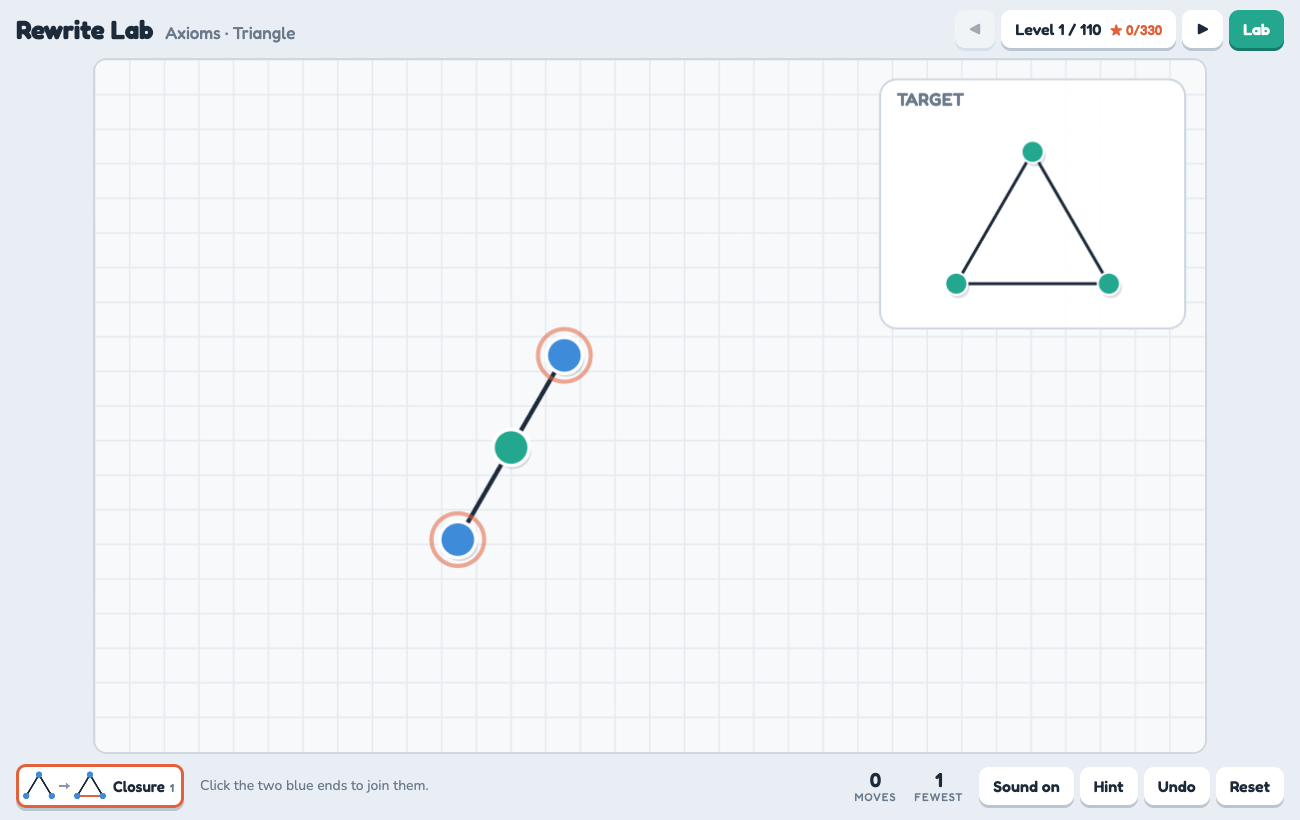
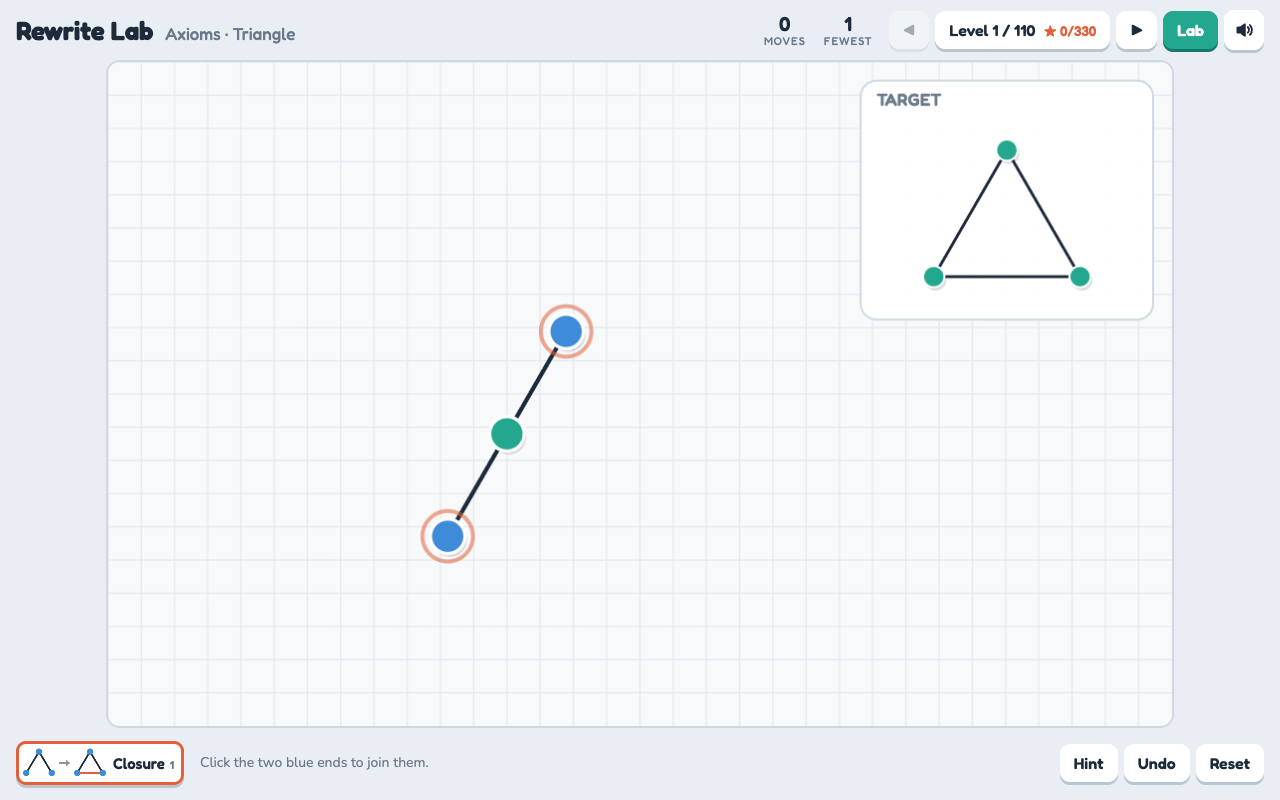
Rewrite Lab: upright board on phones, fixed one-row dock, targets fill their card, Enter on the result card, settings up front
- Portrait bench (500x760) when the window is taller than wide: the graph is about 1.6x larger on a phone; rotating mid-level slides the graph across
- Move counts and a speaker icon move to the header, so the dock never wraps on desktop and the board no longer resizes between levels
- Classic drawings smaller than the card (Domino, Cube) are scaled to fill it like every other target
- Links rest a little longer (88), so graphs use more of the bench
- Every board/feel number in one numbered settings section at the top of the game script
- Level logic (sim block) is byte-identical, so solvability is unchanged

Claude-Session: https://claude.ai/code/session_01NFkjwohv68gp6v72RhcLRV

diff --git a/index.html b/index.html
@@ -24,7 +24,7 @@ body{background:var(--bg);color:var(--ink);font-family:var(--f-body);font-size:1
 .app{height:100vh;height:100dvh;max-width:1400px;margin:0 auto;padding:10px 16px 12px;display:grid;grid-template-rows:auto minmax(0,1fr) auto;gap:10px}
 .mid{min-height:0;min-width:0;display:grid;place-items:center}
 .top{display:flex;flex-wrap:wrap;align-items:center;justify-content:space-between;gap:10px 16px}
-.title{display:flex;align-items:baseline;gap:12px;flex-wrap:wrap;min-width:0}
+.title{flex:1 1 auto;display:flex;align-items:baseline;gap:12px;flex-wrap:wrap;min-width:0}
 h1{font-family:var(--f-display);font-weight:700;font-size:26px;margin:0;letter-spacing:-.01em}
 #lvname{font-family:var(--f-display);font-weight:500;font-size:17px;color:var(--muted)}
 .levels{display:flex;gap:6px;align-items:center}
@@ -51,17 +51,21 @@ button.primary{background:var(--accent);color:#fff;box-shadow:0 3px 0 #a8401f}
 .lv.cur{background:var(--ink);color:#fff;box-shadow:0 3px 0 #0b121b}.lv.cur small{color:#f0a92a}
 .stage{position:relative;border-radius:14px;overflow:hidden;border:2px solid var(--line);background:#f7f9fb;width:800px;height:500px}
 canvas#board{display:block;width:100%;height:100%;touch-action:none;cursor:pointer}
-.dock{display:flex;align-items:center;gap:8px 16px;flex-wrap:wrap}
+.dock{display:grid;grid-template-columns:auto minmax(0,1fr) auto;align-items:center;gap:8px 16px;min-height:50px}
 .rules{display:flex;gap:6px;flex-wrap:wrap}
 .rule{display:flex;align-items:center;gap:6px;padding:5px 10px 5px 6px}
 .rule canvas{width:85px;height:34px}
 .rule span{font-size:15px}.rule kbd{font-family:var(--f-display);font-size:11px;color:var(--muted);margin-left:5px}
 .rule.sel{box-shadow:0 0 0 3px var(--accent) inset,0 3px 0 #b9c5d1}
-#hint{color:var(--muted);margin:0;min-width:0;flex:1 1 220px;font-size:14px;line-height:1.3}
+#hint{color:var(--muted);margin:0;min-width:0;font-size:14px;line-height:1.3;display:-webkit-box;-webkit-line-clamp:2;-webkit-box-orient:vertical;overflow:hidden}
 .stats{display:flex;gap:18px;font-family:var(--f-display);font-variant-numeric:tabular-nums}
 .stat{display:grid;line-height:1.1;text-align:center}.stat b{font-size:20px;font-weight:600}
 .stat span{font-size:11px;color:var(--muted);text-transform:uppercase;letter-spacing:.08em}
 .group{display:flex;gap:6px;align-items:center}
+button.icon{width:40px;height:40px;padding:0;display:grid;place-items:center}button.icon svg{width:20px;height:20px}
+@media (max-width:1180px){.rule canvas{width:64px;height:26px}}
+@media (max-height:480px){h1{display:none}.app{padding:6px 12px 8px;gap:6px}button{padding:6px 10px}button.icon{height:34px}}
+@media (max-width:760px){.dock{display:flex;flex-wrap:wrap}#hint{flex:1 1 100%}.top{gap:8px 12px}}
 .overlay{position:absolute;inset:0;display:grid;place-items:center;background:rgba(29,42,58,.35);padding:16px}
 .res{background:var(--panel);border:2px solid var(--line);padding:20px 26px;border-radius:16px;text-align:center;display:grid;gap:12px;min-width:min(320px,100%)}
 .res h2{font-family:var(--f-display);font-size:28px;margin:0}
@@ -73,14 +77,15 @@ canvas#board{display:block;width:100%;height:100%;touch-action:none;cursor:point
 .res .group{justify-content:center}
 @keyframes pop{0%{transform:scale(0) rotate(-40deg)}100%{transform:scale(1)}}
 @media (prefers-reduced-motion:reduce){.stars span.on{animation:none}}
-@media (max-width:560px){h1{font-size:20px}#lvname{font-size:14px}.rule canvas{width:52px;height:21px}.rule span{font-size:13px}.rule kbd{display:none}.chrow{grid-template-columns:1fr}}
+@media (max-width:560px){h1{font-size:20px}.levels{gap:4px}.levels button{padding:8px 9px}#lvPick{min-width:0;white-space:nowrap;font-size:14px}#lvPick small{margin-left:5px}button.icon{width:36px}.title{flex:1 1 0}.stats{gap:12px}#lvname{font-size:14px}.rule canvas{width:52px;height:21px}.rule span{font-size:13px}.rule kbd{display:none}.chrow{grid-template-columns:1fr}}
 </style>
 </head>
 <body>
 <div class="app">
   <div class="top">
     <div class="title"><h1>Rewrite Lab</h1><span id="lvname"></span></div>
-    <div class="levels" id="levels"></div>
+    <div class="stats"><div class="stat"><b id="sMoves">0</b><span>moves</span></div><div class="stat"><b id="sBest">0</b><span>fewest</span></div></div>
+    <div class="levels"><div class="levels" id="levels"></div><button id="bMute" class="icon" title="Sound (M)" aria-label="Sound"></button></div>
   </div>
   <main class="mid" id="mid"><div class="stage" id="stage">
     <canvas id="board" width="800" height="500" aria-label="Graph board. Pick a rule, then click nodes or links where it applies."></canvas>
@@ -95,15 +100,14 @@ canvas#board{display:block;width:100%;height:100%;touch-action:none;cursor:point
         <h2 id="ovTitle"></h2>
         <div class="stars" id="ovStars"></div>
         <div class="goals" id="ovGoals"></div>
-        <div class="group"><button id="ovRetry">Again</button><button class="primary" id="ovNext">Next</button></div>
+        <div class="group"><button id="ovRetry">Again</button><button class="primary" id="ovNext" title="Enter">Next</button></div>
       </div>
     </div>
   </div></main>
   <footer class="dock">
     <div class="rules" id="rules"></div>
     <p id="hint"></p>
-    <div class="stats"><div class="stat"><b id="sMoves">0</b><span>moves</span></div><div class="stat"><b id="sBest">0</b><span>fewest</span></div></div>
-    <div class="group"><button id="bMute" title="Sound (M)">Sound on</button><button id="bHint">Hint</button><button id="bUndo">Undo</button><button id="bReset">Reset</button></div>
+    <div class="group"><button id="bHint">Hint</button><button id="bUndo">Undo</button><button id="bReset">Reset</button></div>
   </footer>
 </div>
 
@@ -423,18 +427,52 @@ if(typeof module!=='undefined')module.exports={LEVELS,RULES,SH,moves,completions
 </script>
 
 <script>
-/* ---------- game ---------- */
-const $=s=>document.querySelector(s);
-const cv=$('#board'),g=cv.getContext('2d'),W=800,H=500,DPR=Math.min(2,window.devicePixelRatio||1);
-/* the bench keeps 8:5 and fills the space between header and dock; the canvas draws at its real pixel size */
-let scale=1;
-function fit(){const m=$('#mid').getBoundingClientRect(),w=Math.max(280,Math.min(m.width,m.height*W/H)),st=$('#stage');
-  st.style.width=w+'px';st.style.height=w*H/W+'px';scale=w/W;cv.width=Math.round(w*DPR);cv.height=Math.round(w*H/W*DPR);}
-new ResizeObserver(fit).observe($('#mid'));fit();
-const reduce=matchMedia('(prefers-reduced-motion: reduce)').matches;
+/* ---------- 1. settings: every number that shapes the board, the feel and the look ---------- */
+/* The board is a logical drawing space that scales to the window. A wide window gets the landscape bench, a tall one
+   (a phone held upright) the portrait bench, so the graph uses the screen instead of a thin strip. */
+const BOARD_LAYOUTS={
+  landscape:{width:800,height:500,graphCentre:[300,280],winCentre:[300,270]},
+  portrait:{width:500,height:760,graphCentre:[250,470],winCentre:[250,470]},
+};
+const PORTRAIT_WHEN_TALLER_THAN=1.05;   // portrait board once the free space is this much taller than wide
+const SMALLEST_BOARD_PIXELS=280;        // the board never shrinks below this width on screen
+const TARGET_CARD={width:220,height:180,margin:14,drawingSize:110};  // pinned top right; drawingSize = the target's widest extent
+const LINK_REST_LENGTH=88;              // preferred link length on the board, before denser graphs stretch it
+const START_DRAWING_SIZE=300;           // a classic start drawing (extent 1) is scaled to this many board units
+const WIN_DRAWING_SIZE=260;             // on a win the graph morphs into the target drawing at this size
+const NODE_RADIUS=13;                   // board node radius
+const NODE_HIT_RADIUS=26;               // a click this close picks a node
+const LINK_HIT_DISTANCE=14;             // a click this close to a link (away from its ends) picks the link
+const DRAG_START_DISTANCE=6;            // the pointer must move this far before a press becomes a drag
+const NEW_NODE_POP_MS=350;              // a new or merged node swells for this long
+const BAD_CLICK_FLASH_MS=350;           // a click that does nothing shows a fading ring for this long
+const WIN_MORPH_MS=900;                 // the graph glides into the target drawing over this long
+const RESULT_CARD_DELAY_MS=250;         // pause after the morph before the result card
+const CONFETTI_PIECES=70, CONFETTI_MS=1600;
+const EVEN_ANGLE_PUSH=3;                // strength of the even-angles push in relax
+/* a node's colour is its link count: grey 0, blue 1, teal 2, gold 3, orange 4, purple 5, indigo 6+ */
 const DEG=['#9aa5b1','#3d8bd9','#23a88f','#f0a92a','#e2603a','#a957c4','#5257d1'];
+
+/* ---------- 2. game ---------- */
+const $=s=>document.querySelector(s);
+const cv=$('#board'),g=cv.getContext('2d'),DPR=Math.min(2,window.devicePixelRatio||1);
+/* current board: logical size, where graphs settle, the target card; fit() switches them with the window's shape */
+let boardShape='landscape',W=BOARD_LAYOUTS.landscape.width,H=BOARD_LAYOUTS.landscape.height,PANEL=null,scale=1;
+function useBoardShape(shape){const B=BOARD_LAYOUTS[shape];boardShape=shape;W=B.width;H=B.height;
+  PANEL={x:W-TARGET_CARD.width-TARGET_CARD.margin,y:TARGET_CARD.margin,w:TARGET_CARD.width,h:TARGET_CARD.height};}
+useBoardShape(boardShape);
+const graphCentre=()=>BOARD_LAYOUTS[boardShape].graphCentre;
+/* the bench keeps its shape's aspect and fills the space between header and dock; the canvas draws at its real pixel size.
+   Switching shape mid-level slides the graph to the new centre, and relax pulls it into the new bounds. */
+function fit(){const m=$('#mid').getBoundingClientRect(),shape=m.height>m.width*PORTRAIT_WHEN_TALLER_THAN?'portrait':'landscape';
+  if(shape!==boardShape){const [ox,oy]=graphCentre();useBoardShape(shape);const [nx,ny]=graphCentre();
+    const slide=([x,y])=>[x+nx-ox,y+ny-oy];
+    if(pos)for(const p of pos.values())[p.x,p.y]=slide([p.x,p.y]);
+    if(morph)for(const M of [morph.from,morph.to])for(const [v,xy] of M)M.set(v,slide(xy));}
+  const w=Math.max(SMALLEST_BOARD_PIXELS,Math.min(m.width,m.height*W/H)),st=$('#stage');
+  st.style.width=w+'px';st.style.height=w*H/W+'px';scale=w/W;cv.width=Math.round(w*DPR);cv.height=Math.round(w*H/W*DPR);}
+const reduce=matchMedia('(prefers-reduced-motion: reduce)').matches;
 const degCol=d=>DEG[Math.min(d,DEG.length-1)];
-const PANEL={x:566,y:14,w:220,h:180};
 /* chapters: [first level, name]; each one after Axioms brings in a rule */
 const CHAPTERS=[[1,"Axioms"],[14,"Pruning"],[22,"Homeomorphism"],[32,"False Twins"],[44,"Complements"],[58,"Delta-Wye"],[70,"Wye-Delta"],[82,"Grand Unification"],[101,"Erdős Problems"]];
 const chapterOf=i=>CHAPTERS.filter(c=>c[0]<=i+1).pop();
@@ -468,7 +506,10 @@ const SFX={
   undo:()=>tone(587,.1,{type:'triangle',to:392,vol:.06}),
   win:n=>[523,659,784,1047].slice(0,n+1).forEach((f,i)=>tone(f,.45,{type:'triangle',vol:.09,delay:i*.09})),
 };
-function setMute(m){save.muted=m;persist();$('#bMute').textContent=m?'Sound off':'Sound on';}
+/* speaker icon, with a cross when muted */
+const SPEAKER='<svg viewBox="0 0 24 24" fill="none" stroke="currentColor" stroke-width="2.2" stroke-linecap="round" stroke-linejoin="round"><path d="M4 9h4l5-4v14l-5-4H4z" fill="currentColor"/>';
+function setMute(m){save.muted=m;persist();const b=$('#bMute');b.setAttribute('aria-pressed',String(!m));
+  b.innerHTML=SPEAKER+(m?'<path d="M17 9l5 6M22 9l-5 6"/></svg>':'<path d="M16.5 8.5a5 5 0 0 1 0 7M19 6a8.5 8.5 0 0 1 0 12"/></svg>');}
 
 /* ---------- solver worker: level maps (instant hints) and Lab puzzles, off the main thread ---------- */
 function job(m){
@@ -482,8 +523,7 @@ try{worker=new Worker(URL.createObjectURL(new Blob([$('#sim').textContent,`;${jo
 function ask(m,cb){m.token=++jobs;waiting.set(m.token,[m,cb]);if(worker)worker.postMessage(m);else runLocal();}
 
 /* force layout */
-const ANG=3;// strength of the even-angles push in relax
-function relax(gg,P,iters,cx,cy,rest=72,pinned=null,board=true){
+function relax(gg,P,iters,cx,cy,rest=LINK_REST_LENGTH,pinned=null,board=true){
   const N=nbrs(gg);if(board)rest*=Math.max(1,Math.sqrt(gg.E.size/gg.V.length/1.2));
   for(let it=0;it<iters;it++){
     // spread the links around each node: neighbours closer than an even share of the circle are pushed apart sideways,
@@ -492,7 +532,7 @@ function relax(gg,P,iters,cx,cy,rest=72,pinned=null,board=true){
     for(const a of gg.V){const ns=[...N.get(a)];if(ns.length<2)continue;const p=P.get(a),even=2*Math.PI/ns.length;
       const th=ns.map(b=>{const q=P.get(b);return [b,Math.atan2(q.y-p.y,q.x-p.x),Math.hypot(q.x-p.x,q.y-p.y)+1];}).sort((x,y)=>x[1]-y[1]);
       th.forEach(([b,t,rb],i)=>{const [c,u,rc]=th[(i+1)%th.length],gap=((u-t)%(2*Math.PI)+2*Math.PI)%(2*Math.PI);if(gap>=even)return;
-        const f=ANG*(even-gap)*rest,fb=[Math.sin(t)*f/rb,-Math.cos(t)*f/rb],fc=[-Math.sin(u)*f/rc,Math.cos(u)*f/rc],ta=T.get(a);
+        const f=EVEN_ANGLE_PUSH*(even-gap)*rest,fb=[Math.sin(t)*f/rb,-Math.cos(t)*f/rb],fc=[-Math.sin(u)*f/rc,Math.cos(u)*f/rc],ta=T.get(a);
         T.get(b)[0]+=fb[0];T.get(b)[1]+=fb[1];T.get(c)[0]+=fc[0];T.get(c)[1]+=fc[1];ta[0]-=fb[0]+fc[0];ta[1]-=fb[1]+fc[1];});}
     for(const a of gg.V){const p=P.get(a);let fx=(cx-p.x)*.004+T.get(a)[0],fy=(cy-p.y)*.004+T.get(a)[1];
       for(const b of gg.V){if(a===b)continue;const q=P.get(b),dx=p.x-q.x,dy=p.y-q.y,d2=dx*dx+dy*dy+.01,d=Math.sqrt(d2);const f=2600/d2;fx+=dx/d*f;fy+=dy/d*f;}
@@ -513,13 +553,15 @@ function crossings(gg,P){const E=edgesOf(gg);let n=0;
     if(o(p,q,r)!==o(p,q,s)&&o(r,s,p)!==o(r,s,q))n++;}
   return n;}
 /* a shape's classic drawing when it has one, else a few seeded starting orders, keeping the relaxed layout with the fewest crossings */
-function targetLayout(t,drawing){if(drawing){const out=new Map();t.V.forEach((v,i)=>out.set(v,drawing[i]));return out;}
+function targetLayout(t,drawing){if(drawing)return normalised(new Map(t.V.map((v,i)=>[v,{x:drawing[i][0],y:drawing[i][1]}])));
   let P=null,best=Infinity,seed=7;const rnd=()=>(seed=(seed*16807)%2147483647)/2147483647;
   for(let k=0;k<40&&best>0;k++){const order=t.V.slice();if(k)for(let i=order.length-1;i>0;i--){const j=Math.floor(rnd()*(i+1));[order[i],order[j]]=[order[j],order[i]];}
     const Q=new Map();order.forEach((v,i)=>{const a=-Math.PI/2+2*Math.PI*i/order.length;Q.set(v,{x:60*Math.cos(a),y:60*Math.sin(a),vx:0,vy:0});});
     relax(t,Q,600,0,0,60,null,false);const c=crossings(t,Q);if(c<best){best=c;P=Q;}}
-  let xs=[...P.values()].map(p=>p.x),ys=[...P.values()].map(p=>p.y);
-  const mx=(Math.min(...xs)+Math.max(...xs))/2,my=(Math.min(...ys)+Math.max(...ys))/2,s=Math.max(Math.max(...xs)-Math.min(...xs),Math.max(...ys)-Math.min(...ys),1);
+  return normalised(P);}
+/* a layout centred on 0,0 with its widest extent 1, so every target fills the card the same way */
+function normalised(P){const xs=[...P.values()].map(p=>p.x),ys=[...P.values()].map(p=>p.y);
+  const mx=(Math.min(...xs)+Math.max(...xs))/2,my=(Math.min(...ys)+Math.max(...ys))/2,s=Math.max(Math.max(...xs)-Math.min(...xs),Math.max(...ys)-Math.min(...ys),1e-9);
   const out=new Map();for(const [v,p] of P)out.set(v,[(p.x-mx)/s,(p.y-my)/s]);return out;}
 
 /* level flow */
@@ -560,8 +602,9 @@ const load=i=>{if(save.last!==i){save.last=i;persist();}play(LEVELS[i],i);};
 /* start a level: a campaign one (index i) or a Lab puzzle (i = -1) */
 function play(lvl,i){
   li=i;L=lvl;gr={next:L.start.next,V:L.start.V.slice(),E:new Set(L.start.E)};
-  pos=new Map();for(const [v,[x,y]] of targetLayout(L.start,L.start.pos))pos.set(v,{x:300+x*300,y:280+y*300,vx:0,vy:0});
-  relax(gr,pos,L.start.pos?40:300,300,280);
+  const [cx,cy]=graphCentre();pos=new Map();
+  for(const [v,[x,y]] of targetLayout(L.start,L.start.pos))pos.set(v,{x:cx+x*START_DRAWING_SIZE,y:cy+y*START_DRAWING_SIZE,vx:0,vy:0});
+  relax(gr,pos,L.start.pos?40:300,cx,cy);
   tlay=targetLayout(L.target,L.target.pos);hist=[];movesN=0;hint=null;hintMsg='';rule=L.rules.length===1?L.rules[0]:null;picks=[];won=false;morph=null;dist=null;
   bestOf(L);ask({type:'map',L:{start:L.start,target:L.target,rules:L.rules,cap:capOf(L)}},r=>{if(lvl!==L)return;dist=r.dist;});
   $('#lvname').textContent=i<0?L.name:`${chapterOf(i)[1]} · ${L.name}`;$('#ov').hidden=true;$('#lvgrid').hidden=true;$('#labp').hidden=true;buildLevels();buildRules();updateHud();
@@ -582,7 +625,7 @@ function apply(){
   const m=iso(gr,L.target);
   if(!m)buildRules();
   if(m){won=true;rule=null;buildRules();
-    const s=260,cx=300,cy=270,from=new Map([...pos].map(([k,p])=>[k,[p.x,p.y]])),to=new Map();for(const [v,w] of m){const [tx,ty]=tlay.get(w);to.set(v,[cx+tx*s,cy+ty*s]);}
+    const s=WIN_DRAWING_SIZE,[cx,cy]=BOARD_LAYOUTS[boardShape].winCentre,from=new Map([...pos].map(([k,p])=>[k,[p.x,p.y]])),to=new Map();for(const [v,w] of m){const [tx,ty]=tlay.get(w);to.set(v,[cx+tx*s,cy+ty*s]);}
     morph={t0:performance.now(),from,to};}
 }
 function finish(){
@@ -598,13 +641,13 @@ function finish(){
   $('#ovNext').textContent=li<0?'New puzzle':'Next';$('#ovNext').hidden=li===LEVELS.length-1;$('#ov').hidden=false;
 }
 /* a perfect solve throws confetti in the link colours */
-function burst(){if(reduce)return;const t=performance.now();for(let k=0;k<70;k++){const a=Math.random()*Math.PI*2,v=3+Math.random()*6;
-  parts.push({x:300,y:260,vx:Math.cos(a)*v,vy:Math.sin(a)*v-4,c:DEG[1+k%6],t,r:3+Math.random()*3});}}
+function burst(){if(reduce)return;const t=performance.now(),[cx,cy]=BOARD_LAYOUTS[boardShape].winCentre;for(let k=0;k<CONFETTI_PIECES;k++){const a=Math.random()*Math.PI*2,v=3+Math.random()*6;
+  parts.push({x:cx,y:cy-10,vx:Math.cos(a)*v,vy:Math.sin(a)*v-4,c:DEG[1+k%6],t,r:3+Math.random()*3});}}
 
 /* picking */
 function pt(e){const r=cv.getBoundingClientRect();return [(e.clientX-r.left)/r.width*W,(e.clientY-r.top)/r.height*H];}
-function nodeAt(x,y){let best=null,bd=26;for(const v of gr.V){const p=pos.get(v),d=Math.hypot(p.x-x,p.y-y);if(d<bd){bd=d;best=v;}}return best;}
-function edgeAt(x,y){let best=null,bd=14;for(const [a,b] of edgesOf(gr)){const p=pos.get(a),q=pos.get(b),ex=q.x-p.x,ey=q.y-p.y,l2=ex*ex+ey*ey||1,u=Math.max(0,Math.min(1,((x-p.x)*ex+(y-p.y)*ey)/l2)),d=Math.hypot(p.x+ex*u-x,p.y+ey*u-y);
+function nodeAt(x,y){let best=null,bd=NODE_HIT_RADIUS;for(const v of gr.V){const p=pos.get(v),d=Math.hypot(p.x-x,p.y-y);if(d<bd){bd=d;best=v;}}return best;}
+function edgeAt(x,y){let best=null,bd=LINK_HIT_DISTANCE;for(const [a,b] of edgesOf(gr)){const p=pos.get(a),q=pos.get(b),ex=q.x-p.x,ey=q.y-p.y,l2=ex*ex+ey*ey||1,u=Math.max(0,Math.min(1,((x-p.x)*ex+(y-p.y)*ey)/l2)),d=Math.hypot(p.x+ex*u-x,p.y+ey*u-y);
   if(d<bd&&u>.12&&u<.88){bd=d;best=[a,b];}}return best;}
 const nextKind=()=>rule?RULES[rule].picks[picks.length]:null;
 /* c may be picked next when some way to finish the move starts with it */
@@ -627,10 +670,11 @@ function click(x,y){
 function flash(x,y){bad={x,y,t:performance.now()};SFX.nope();}
 cv.addEventListener('pointerdown',e=>{const [x,y]=pt(e),v=nodeAt(x,y);drag={v,x0:x,y0:y,moved:false};cv.setPointerCapture(e.pointerId);});
 cv.addEventListener('pointerleave',()=>{hover=null;});
-cv.addEventListener('pointermove',e=>{hover=pt(e);if(!drag||drag.v===null||won)return;const [x,y]=pt(e);if(!drag.moved&&Math.hypot(x-drag.x0,y-drag.y0)<6)return;drag.moved=true;const p=pos.get(drag.v);if(p){p.x=x;p.y=y;p.vx=p.vy=0;}});
+cv.addEventListener('pointermove',e=>{hover=pt(e);if(!drag||drag.v===null||won)return;const [x,y]=pt(e);if(!drag.moved&&Math.hypot(x-drag.x0,y-drag.y0)<DRAG_START_DISTANCE)return;drag.moved=true;const p=pos.get(drag.v);if(p){p.x=x;p.y=y;p.vx=p.vy=0;}});
 cv.addEventListener('pointerup',e=>{if(!drag)return;const d=drag;drag=null;if(!d.moved)click(d.x0,d.y0);});
 cv.addEventListener('contextmenu',e=>{e.preventDefault();picks=[];});
 addEventListener('keydown',e=>{if(e.metaKey||e.ctrlKey||e.repeat)return;const k=e.key.toLowerCase();
+  if(k==='enter'&&!$('#ov').hidden){e.preventDefault();(!$('#ovNext').hidden?$('#ovNext'):$('#ovRetry')).click();return;}// result card: Enter goes on
   if(k==='escape'){picks=[];$('#lvgrid').hidden=true;$('#labp').hidden=true;}else if(k==='z'||k==='backspace')undo();else if(k==='r')restart();
   else if(k==='h')showHint();else if(k==='m')setMute(!save.muted);else if(k>='1'&&k<='9'&&+k<=L.rules.length)pickRule(L.rules[+k-1]);});
 /* the next move on a shortest route, read straight off the level map */
@@ -687,17 +731,17 @@ function previewMove(h,gp){
   g.lineCap='butt';
   const gone=gr.V.filter(v=>!h.V.includes(v)),changed=h.V.filter(v=>!P.has(v)&&N.get(v).size!==HN.get(v).size);
   return {ids:[...gone,...changed,...(h.merged?[h.merged[0]]:[])],draw:()=>{
-    for(const v of changed)node(g,...gp(v),13,HN.get(v).size,null);
-    for(const [v,p] of P)node(g,...p,13,HN.get(v).size,'rgba(35,168,143,.95)');}};}
+    for(const v of changed)node(g,...gp(v),NODE_RADIUS,HN.get(v).size,null);
+    for(const [v,p] of P)node(g,...p,NODE_RADIUS,HN.get(v).size,'rgba(35,168,143,.95)');}};}
 function render(now){
   g.setTransform(DPR*scale,0,0,DPR*scale,0,0);
   g.fillStyle='#f7f9fb';g.fillRect(0,0,W,H);
   g.strokeStyle='#e3e9ef';g.lineWidth=1;for(let x=0;x<W;x+=25){g.beginPath();g.moveTo(x,0);g.lineTo(x,H);g.stroke();}for(let y=0;y<H;y+=25){g.beginPath();g.moveTo(0,y);g.lineTo(W,y);g.stroke();}
   // morph to the target's layout on a win
-  if(morph){const u=Math.min(1,(now-morph.t0)/(reduce?1:900)),e=u<.5?2*u*u:1-2*(1-u)*(1-u);
+  if(morph){const u=Math.min(1,(now-morph.t0)/(reduce?1:WIN_MORPH_MS)),e=u<.5?2*u*u:1-2*(1-u)*(1-u);
     for(const [v,[fx,fy]] of morph.from){const [tx,ty]=morph.to.get(v),p=pos.get(v);p.x=fx+(tx-fx)*e;p.y=fy+(ty-fy)*e;}
-    if(u>=1&&!morph.done){morph.done=true;setTimeout(finish,250);}}
-  else relax(gr,pos,1,300,280,72,drag&&drag.moved?drag.v:null);
+    if(u>=1&&!morph.done){morph.done=true;setTimeout(finish,RESULT_CARD_DELAY_MS);}}
+  else relax(gr,pos,1,...graphCentre(),LINK_REST_LENGTH,drag&&drag.moved?drag.v:null);
   const N=nbrs(gr),kind=nextKind(),candN=new Set(),candE=new Set();let fade=null;
   if(rule&&!won){if(kind==='node'){for(const v of gr.V)if(!picks.includes(v)&&ok(v))candN.add(v);}else for(const e of edgesOf(gr))if(ok(e))candE.add(key(...e));}
   for(const [a,b] of edgesOf(gr)){const p=pos.get(a),q=pos.get(b),hot=candE.has(key(a,b)),picked=picks.some(x=>Array.isArray(x)&&key(...x)===key(a,b));
@@ -713,20 +757,21 @@ function render(now){
   if(hint&&!won){const pulse=reduce?.6:.45+.35*Math.sin(now/180);g.strokeStyle=`rgba(240,169,42,${pulse})`;g.lineWidth=10;
     hint.forEach((x,i)=>{if(i<picks.length)return;if(Array.isArray(x)){const a=pos.get(x[0]),b=pos.get(x[1]);if(a&&b){g.beginPath();g.moveTo(a.x,a.y);g.lineTo(b.x,b.y);g.stroke();}}else{const p=pos.get(x);if(p){g.beginPath();g.arc(p.x,p.y,22,0,7);g.stroke();}}});
     if(RULES[rule].picks.length>2)hint.forEach((x,i)=>{if(i<picks.length||Array.isArray(x))return;const p=pos.get(x);if(p){g.font='700 13px Fredoka, system-ui, sans-serif';g.fillStyle='#b77500';g.textAlign='center';g.textBaseline='middle';g.fillText('abcd'[i],p.x-18,p.y-18);}});}
-  for(const v of gr.V){const p=pos.get(v),pop=p.pop?Math.max(0,1-(now-p.pop)/350):0,r=13*(1+(reduce?0:.35*pop));
+  for(const v of gr.V){const p=pos.get(v),pop=p.pop?Math.max(0,1-(now-p.pop)/NEW_NODE_POP_MS):0,r=NODE_RADIUS*(1+(reduce?0:.35*pop));
     g.globalAlpha=fade&&fade.ids.includes(v)?.35:1;node(g,p.x,p.y,r,N.get(v).size,picks.includes(v)?'#e2603a':candN.has(v)?'rgba(226,96,58,.55)':null);
     const k=picks.indexOf(v);if(k>=0&&RULES[rule].picks.length>2){g.font='700 12px Fredoka, system-ui, sans-serif';g.fillStyle='#e2603a';g.textAlign='center';g.textBaseline='middle';g.fillText('abcd'[k],p.x+15,p.y-15);}}
   g.globalAlpha=1;if(fade)fade.draw();
-  parts=parts.filter(q=>now-q.t<1600);for(const q of parts){q.x+=q.vx;q.y+=q.vy;q.vy+=.18;q.vx*=.99;g.globalAlpha=Math.max(0,1-(now-q.t)/1600);g.fillStyle=q.c;g.beginPath();g.arc(q.x,q.y,q.r,0,7);g.fill();}g.globalAlpha=1;
-  if(bad&&now-bad.t<350){g.strokeStyle=`rgba(226,96,58,${1-(now-bad.t)/350})`;g.lineWidth=2;g.beginPath();g.arc(bad.x,bad.y,12,0,7);g.stroke();}
+  parts=parts.filter(q=>now-q.t<CONFETTI_MS);for(const q of parts){q.x+=q.vx;q.y+=q.vy;q.vy+=.18;q.vx*=.99;g.globalAlpha=Math.max(0,1-(now-q.t)/CONFETTI_MS);g.fillStyle=q.c;g.beginPath();g.arc(q.x,q.y,q.r,0,7);g.fill();}g.globalAlpha=1;
+  if(bad&&now-bad.t<BAD_CLICK_FLASH_MS){g.strokeStyle=`rgba(226,96,58,${1-(now-bad.t)/BAD_CLICK_FLASH_MS})`;g.lineWidth=2;g.beginPath();g.arc(bad.x,bad.y,12,0,7);g.stroke();}
   // target card
   const P=PANEL;g.fillStyle='rgba(255,255,255,.94)';g.strokeStyle='#cfd8e1';g.lineWidth=1.5;g.beginPath();g.roundRect(P.x,P.y,P.w,P.h,12);g.fill();g.stroke();
   g.font='600 13px Fredoka, system-ui, sans-serif';g.fillStyle='#6b7a8b';g.textAlign='left';g.textBaseline='middle';g.fillText('TARGET',P.x+12,P.y+15);
-  const TN=nbrs(L.target),tc=[P.x+P.w/2,P.y+100],ts=110;
+  const TN=nbrs(L.target),tc=[P.x+P.w/2,P.y+P.h/2+10],ts=TARGET_CARD.drawingSize;
   for(const [a,b] of edgesOf(L.target)){const [ax,ay]=tlay.get(a),[bx,by]=tlay.get(b);g.strokeStyle='#1d2a3a';g.lineWidth=2.2;g.beginPath();g.moveTo(tc[0]+ax*ts,tc[1]+ay*ts);g.lineTo(tc[0]+bx*ts,tc[1]+by*ts);g.stroke();}
   for(const v of L.target.V){const [x,y]=tlay.get(v);node(g,tc[0]+x*ts,tc[1]+y*ts,8,TN.get(v).size);}
   requestAnimationFrame(render);
 }
+new ResizeObserver(fit).observe($('#mid'));fit();
 setMute(!!save.muted);load(Math.min(save.last||0,LEVELS.length-1));requestAnimationFrame(render);
 </script>
 </body>

diff --git a/README.md b/README.md
@@ -30,7 +30,7 @@ Each rule is named for the graph operation it is: Closure (triadic closure), Pen
 ## How it plays
 
 - A worker maps each level when it opens: every shape that can still reach the target and how far it is. Hints read the next move straight off that map.
-- Everything sits on one screen: the board scales to the window, rules, hint, counts and buttons share one dock row.
+- Everything sits on one screen: the board scales to the window and turns upright on a phone held upright, the move counts and sound sit in the header, and rules, hint and buttons share one fixed dock row. Enter goes on from the result card.
 - Clicking is forgiving: a move that can only finish one way happens on the first click (a Star often needs one click, not three), a click with no rule chosen uses the only rule that fits there, a node's colour is its link count, and hit areas are generous.
 - Each chapter opens with a short, easy level for its new rule, then a gentle practice level, before the curve climbs again.
 - **The Lab** mixes fresh puzzles on the spot (Lemma, Proposition, Theorem) from the rules the player has met, under the same quality rules as the campaign.
